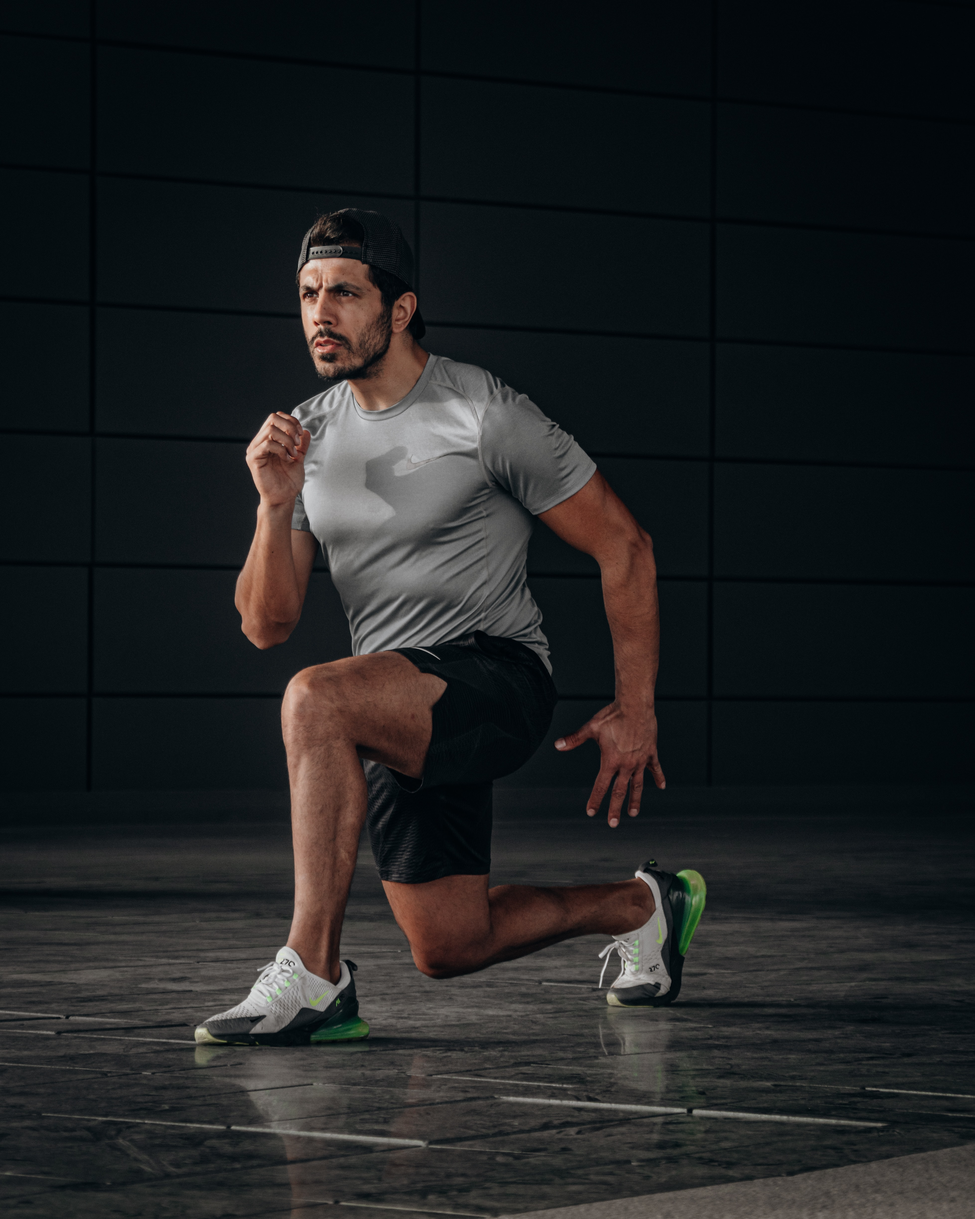
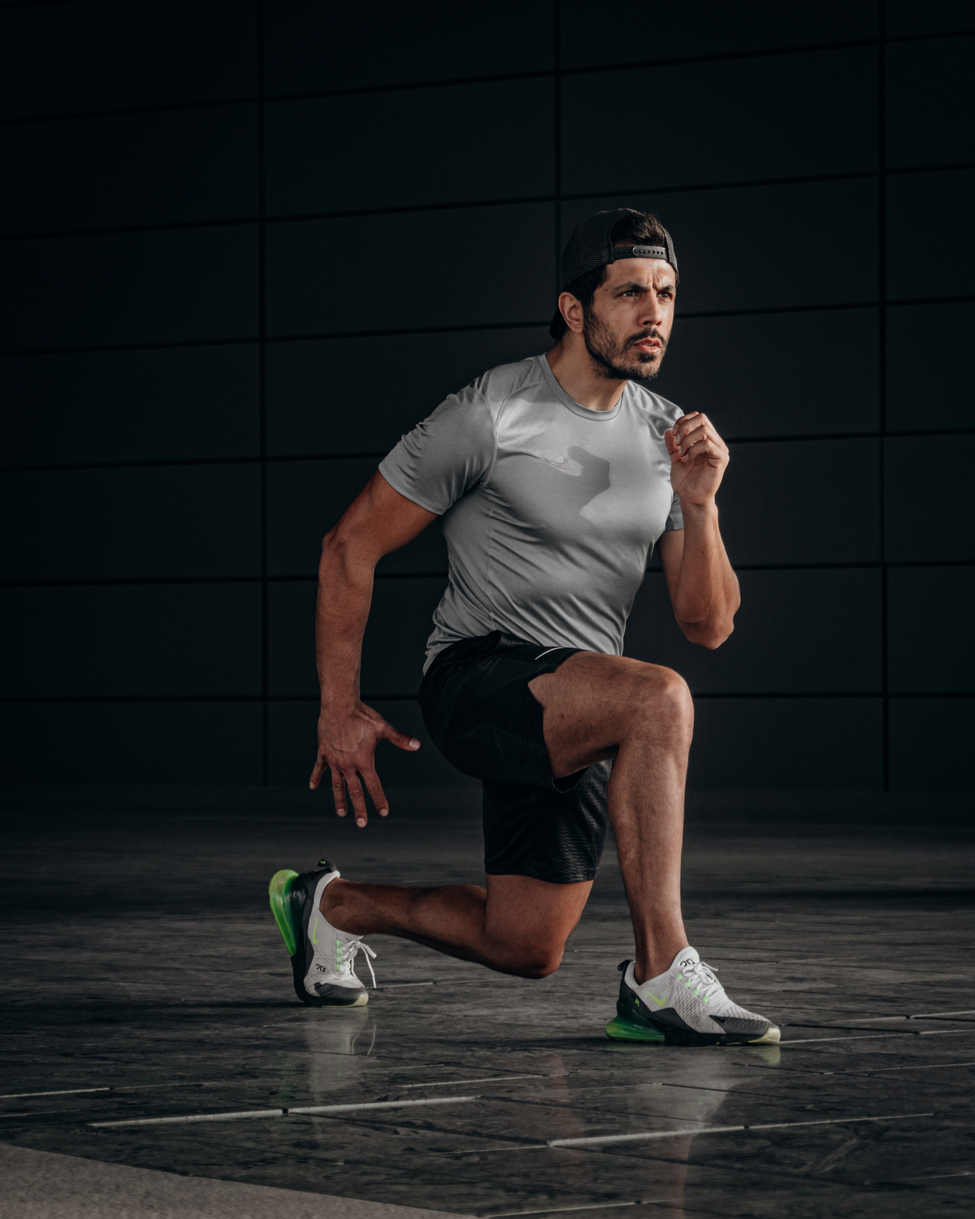
Homepage components added

Changed region(s): [[0.0, 0.1554, 1.0, 1.0]]

diff --git a/flexercise/src/index.css b/flexercise/src/index.css
@@ -73,3 +73,28 @@ code {
 
 /* end of */
 
+.myButton {
+	box-shadow: 0px 1px 0px 0px #fff6af;
+	background:linear-gradient(to bottom, #ffec64 5%, #ffab23 100%);
+	background-color:#ffec64;
+	border-radius:6px;
+	border:1px solid #ffaa22;
+	display:inline-block;
+	cursor:pointer;
+	color:#333333;
+	font-family:Arial;
+	font-size:15px;
+	font-weight:bold;
+	padding:6px 24px;
+	text-decoration:none;
+	text-shadow:0px 1px 0px #ffee66;
+}
+.myButton:hover {
+	background:linear-gradient(to bottom, #ffab23 5%, #ffec64 100%);
+	background-color:#ffab23;
+}
+.myButton:active {
+	position:relative;
+	top:1px;
+}
+

diff --git a/flexercise/src/pages/Homepage/index.js b/flexercise/src/pages/Homepage/index.js
@@ -1,12 +1,13 @@
 import React from "react";
-import TimerPage from "../TimerPage";
+import BackgroundImage from "../../components/1_BackgroundImage/index"
+import LogoImage from "../../components/2_Logo";
 
 const Homepage = ({ onComplete }) => {
   return (
     <div>
-      <h1>Home Page</h1>
-
-      <button onClick={onComplete}>Advance</button>
+      
+      <LogoImage />
+      <button className="myButton" onClick={onComplete}>TRY A 2 MINUTE CHALLENGE NOW</button>
     </div>
   );
 };

diff --git a/flexercise/src/components/1_BackgroundImage/index.js b/flexercise/src/components/1_BackgroundImage/index.js
@@ -1,11 +1,11 @@
 import React from "react";
-import Lunge from "../App/pictures/Lunge.png";
+import Lunge from "../../images/Lunge.jpg";
 
 
 function BackgroundImage() {
     return (
         <div className="homepage">
-            <img id="homepage-background-img" src={Lunge} alt="image of a man lunging" />
+            <img id="homepage-background-img" src={Lunge} alt="man lunging" />
         </div>
     )
 }
